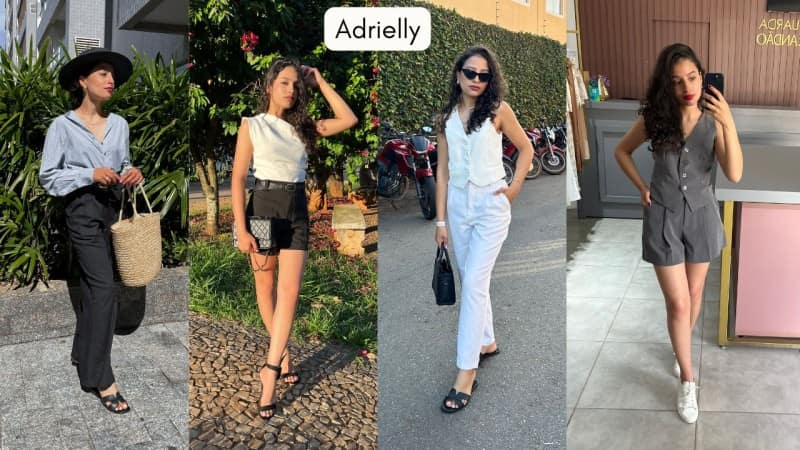
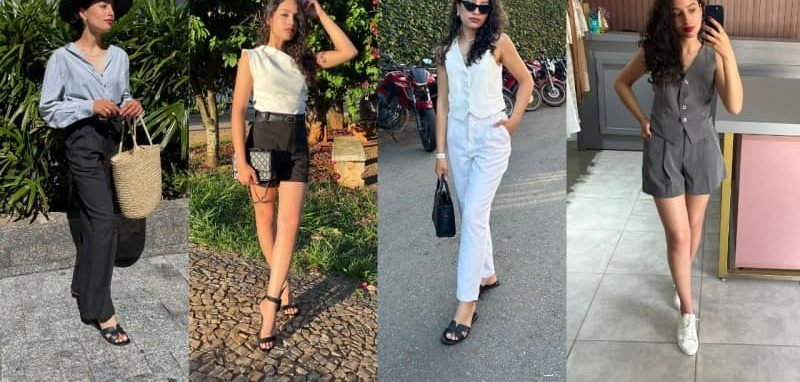
feat: Mexican-neutral handles on comments, strip baked-in PT names from result photos

diff --git a/src/components/Comments.tsx b/src/components/Comments.tsx
@@ -19,27 +19,27 @@ type Comment = {
 
 export const COMMENTS: Comment[] = [
   {
-    user: "vanessamottapaz",
+    user: "valentina.rmz",
     time: "hace 15 min",
     avatar: `${A}/av-vanessa.jpg`,
     text:
       "¡Vale muchííísimo!!! Testimonio sincero: me impresionó que entrega mucho más de lo que está vendiendo. Ya compré otros ebooks que no entregan ni la mitad de este contenido. ¡Felicitaciones Patricia y gracias por el excelente trabajo!",
   },
   {
-    user: "vitt_soyap",
+    user: "sofi.vega",
     time: "hace 1 h",
     text:
       "Chicas, compré el e-book y me encantó. Ya vi a otras personas vendiendo e-books así, pero no eran tan buenos como parecían. El de @pathyalvarenga es sensacional 🙌",
   },
   {
-    user: "erica_degli_",
+    user: "dani.gtz",
     time: "hace 14 h",
     avatar: `${A}/av-erica.jpg`,
     text:
       "Vengo a elogiar el e-book (estoy encantada); entrega mucho más de lo que imaginaba. ¡Estoy feliz!!!! 😍 ¡felicitaciones por el trabajo!",
   },
   {
-    user: "beta.amr",
+    user: "fer.castillo",
     time: "hace 6 sem",
     byAuthor: true,
     likes: 4,
@@ -48,7 +48,7 @@ export const COMMENTS: Comment[] = [
       "Pathy, quería agradecerte por el e-book, ¡fue un antes y un después en mi vida!!! Entregas mucho más de lo que prometes. Es un cambio de vida jaja!! Ahora logro hacer compras con intención, y de a poco estoy entrenando mi mirada para lo que de verdad encaja en mi clóset. Y cuando me da pereza pensar en el look, entro al e-book y elijo fácil qué ponerme. ¡Muchas gracias de verdad!!! ❤👏",
   },
   {
-    user: "camila.alep",
+    user: "cami.mrn",
     time: "hace 19 h",
     byAuthor: true,
     likes: 4,
@@ -57,7 +57,7 @@ export const COMMENTS: Comment[] = [
       'Durante mucho tiempo dejé de arreglarme por esos comentarios y porque "llamaba mucho la atención". Pero desde hace un tiempo dejé de darles importancia y volví a vestirme mejor. Compré tu guía para rehacer mi clóset literalmente desde cero. Doné todo lo que tenía y me estoy inspirando en tu guía, que me ha ayudado muchísimo.',
   },
   {
-    user: "antunesvanessa22",
+    user: "regina.luna_",
     time: "hace 13 min",
     avatar: `${A}/av-antunes.jpg`,
     text:
